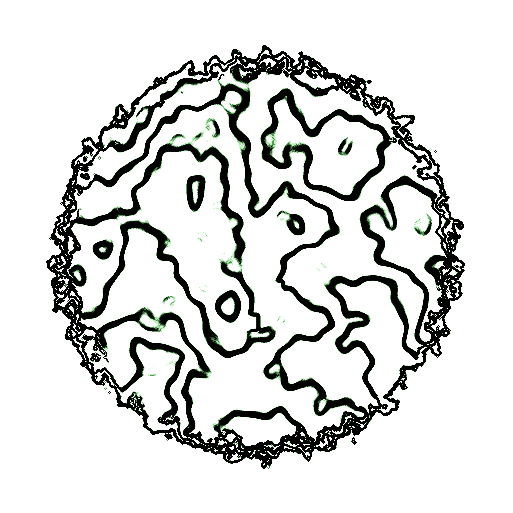
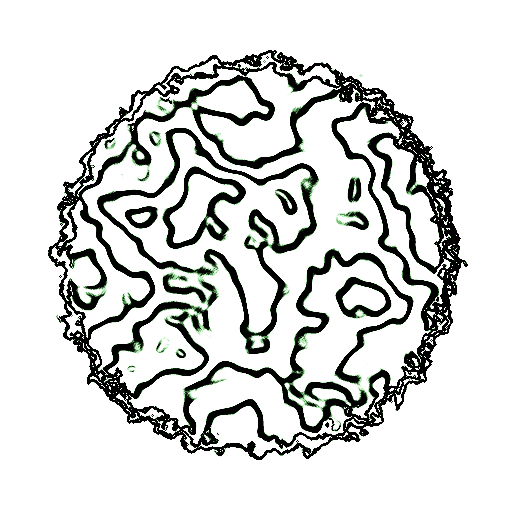
bug fixes

Changed region(s): [[0.0936, 0.0936, 0.9045, 0.9357]]

diff --git a/docs/making_a_level.md b/docs/making_a_level.md
@@ -29,9 +29,24 @@ Two options:
 - **Flat level:** a plain box `StaticBody3D` for ground is enough (see the gym).
 - **Terrain:** add a `HeightmapTerrain`. Selecting it jumps the Kit panel to the **Terrain**
   tab. Pick a preset (character: fractal + island falloff), set `gen_seed` /
-  `feature_scale` / `gen_octaves` / falloff band / `coast_roughness` / `terrace_steps`, set
-  **`height`** (world amplitude in metres), then **Generate terrain**. **Generate new random
+  `feature_scale` / `gen_octaves` / falloff band / `coast_roughness` / `terrace_levels`
+  (plateau band height in 3 m road-grid cells, so flats take painted road tiles flush), set
+  **`height`** (world amplitude in metres; 51 stores the 3 m levels byte-exactly), then
+  **Generate terrain**. **Generate new random
   terrain** rolls a fresh seed. Terrain needs **no AuthoringRoot** to sculpt.
+
+**Generating in sync with the road GridMap** — so plateaus take painted tiles flush with
+no Conform pass:
+
+1. Keep the terrain node's **Y on the 3 m lattice** (normally 0; Generate warns if not).
+2. Set **`height = 51`** — 3 m grid levels then store byte-exactly in the 8-bit heightmap
+   (any other height leaves up to ~`height/510` m of residual, hidden by the tile deck).
+3. Pick **`terrace_levels`** for plateau size: bands are `n × 3 m` (3 = 9 m bands), always
+   grid-aligned; 0 turns terracing off.
+4. **Generate** (alignment is baked in at generation — changing `height` or moving the
+   terrain afterwards rescales/shifts it, so regenerate after such edits).
+5. Paint roads on plateau **interiors**; the ramps *between* plateaus are not
+   grid-aligned — roads crossing them still need **Conform terrain**.
 
 Sculpt with the terrain brushes (raise/lower/smooth/flatten, ramp): `[`/`]` resize, Shift
 smooths, Ctrl inverts, the eyedropper samples a flatten height. Plateau the pads your

diff --git a/docs/level_kit.md b/docs/level_kit.md
@@ -189,7 +189,7 @@ hand-authoring GridMap cell/orientation data is fragile), then re-bake.
   1 = ragged bays and headlands — perturbs the falloff radius with a derived-seed coast
   noise; a hard unperturbed guard past r=0.92 keeps the map border at sea level, and
   `coast_roughness == 0` is byte-identical to the pre-roughness output) / **terrace
-  plateaus** (`terrace_steps` + `terrace_flat`,
+  plateaus** (`terrace_levels` — band height in 3 m road-grid cells — + `terrace_flat`,
   applied last so island coasts step into concentric rings — the buildable flats
   villages/farms need; band centres are preserved so relief is unchanged). **World
   amplitude is the `height` export** — generated pixels stay normalized [0,1] (8-bit
@@ -518,8 +518,9 @@ hand-authoring GridMap cell/orientation data is fragile), then re-bake.
   item mesh AABB in the painted orientation (so 2×2 / 3×3 overhang cells are covered), 4 m
   falloff beyond the union, targets **ROUND-quantized** (closest 8-bit height either side
   of the base — the deck hides the residual, unlike road ribbons which floor), one undo per
-  terrain. Grid-aligned plateaus (terrain `terrace_step`, default 3 m = the roads GridMap
-  vertical cell) mean painted road pads usually sit flush already, so Conform becomes a
+  terrain. Grid-aligned plateaus (terrain `terrace_levels`, plateau bands in whole 3 m
+  roads-GridMap cells, flats snapped to the nearest 8-bit value — byte-exact at
+  `height = 51`) mean painted road pads usually sit flush already, so Conform becomes a
   touch-up rather than a required step. Road Conform's plateau meets the tile at road − ε and `edge_drop`
   absorbs the quantization as usual. **Width:** the tiles' measured deck runs curb-to-curb ±4.8
   (9.6 m) with the white curb line AT ±4.8, so `asphalt_profile.tres` sets